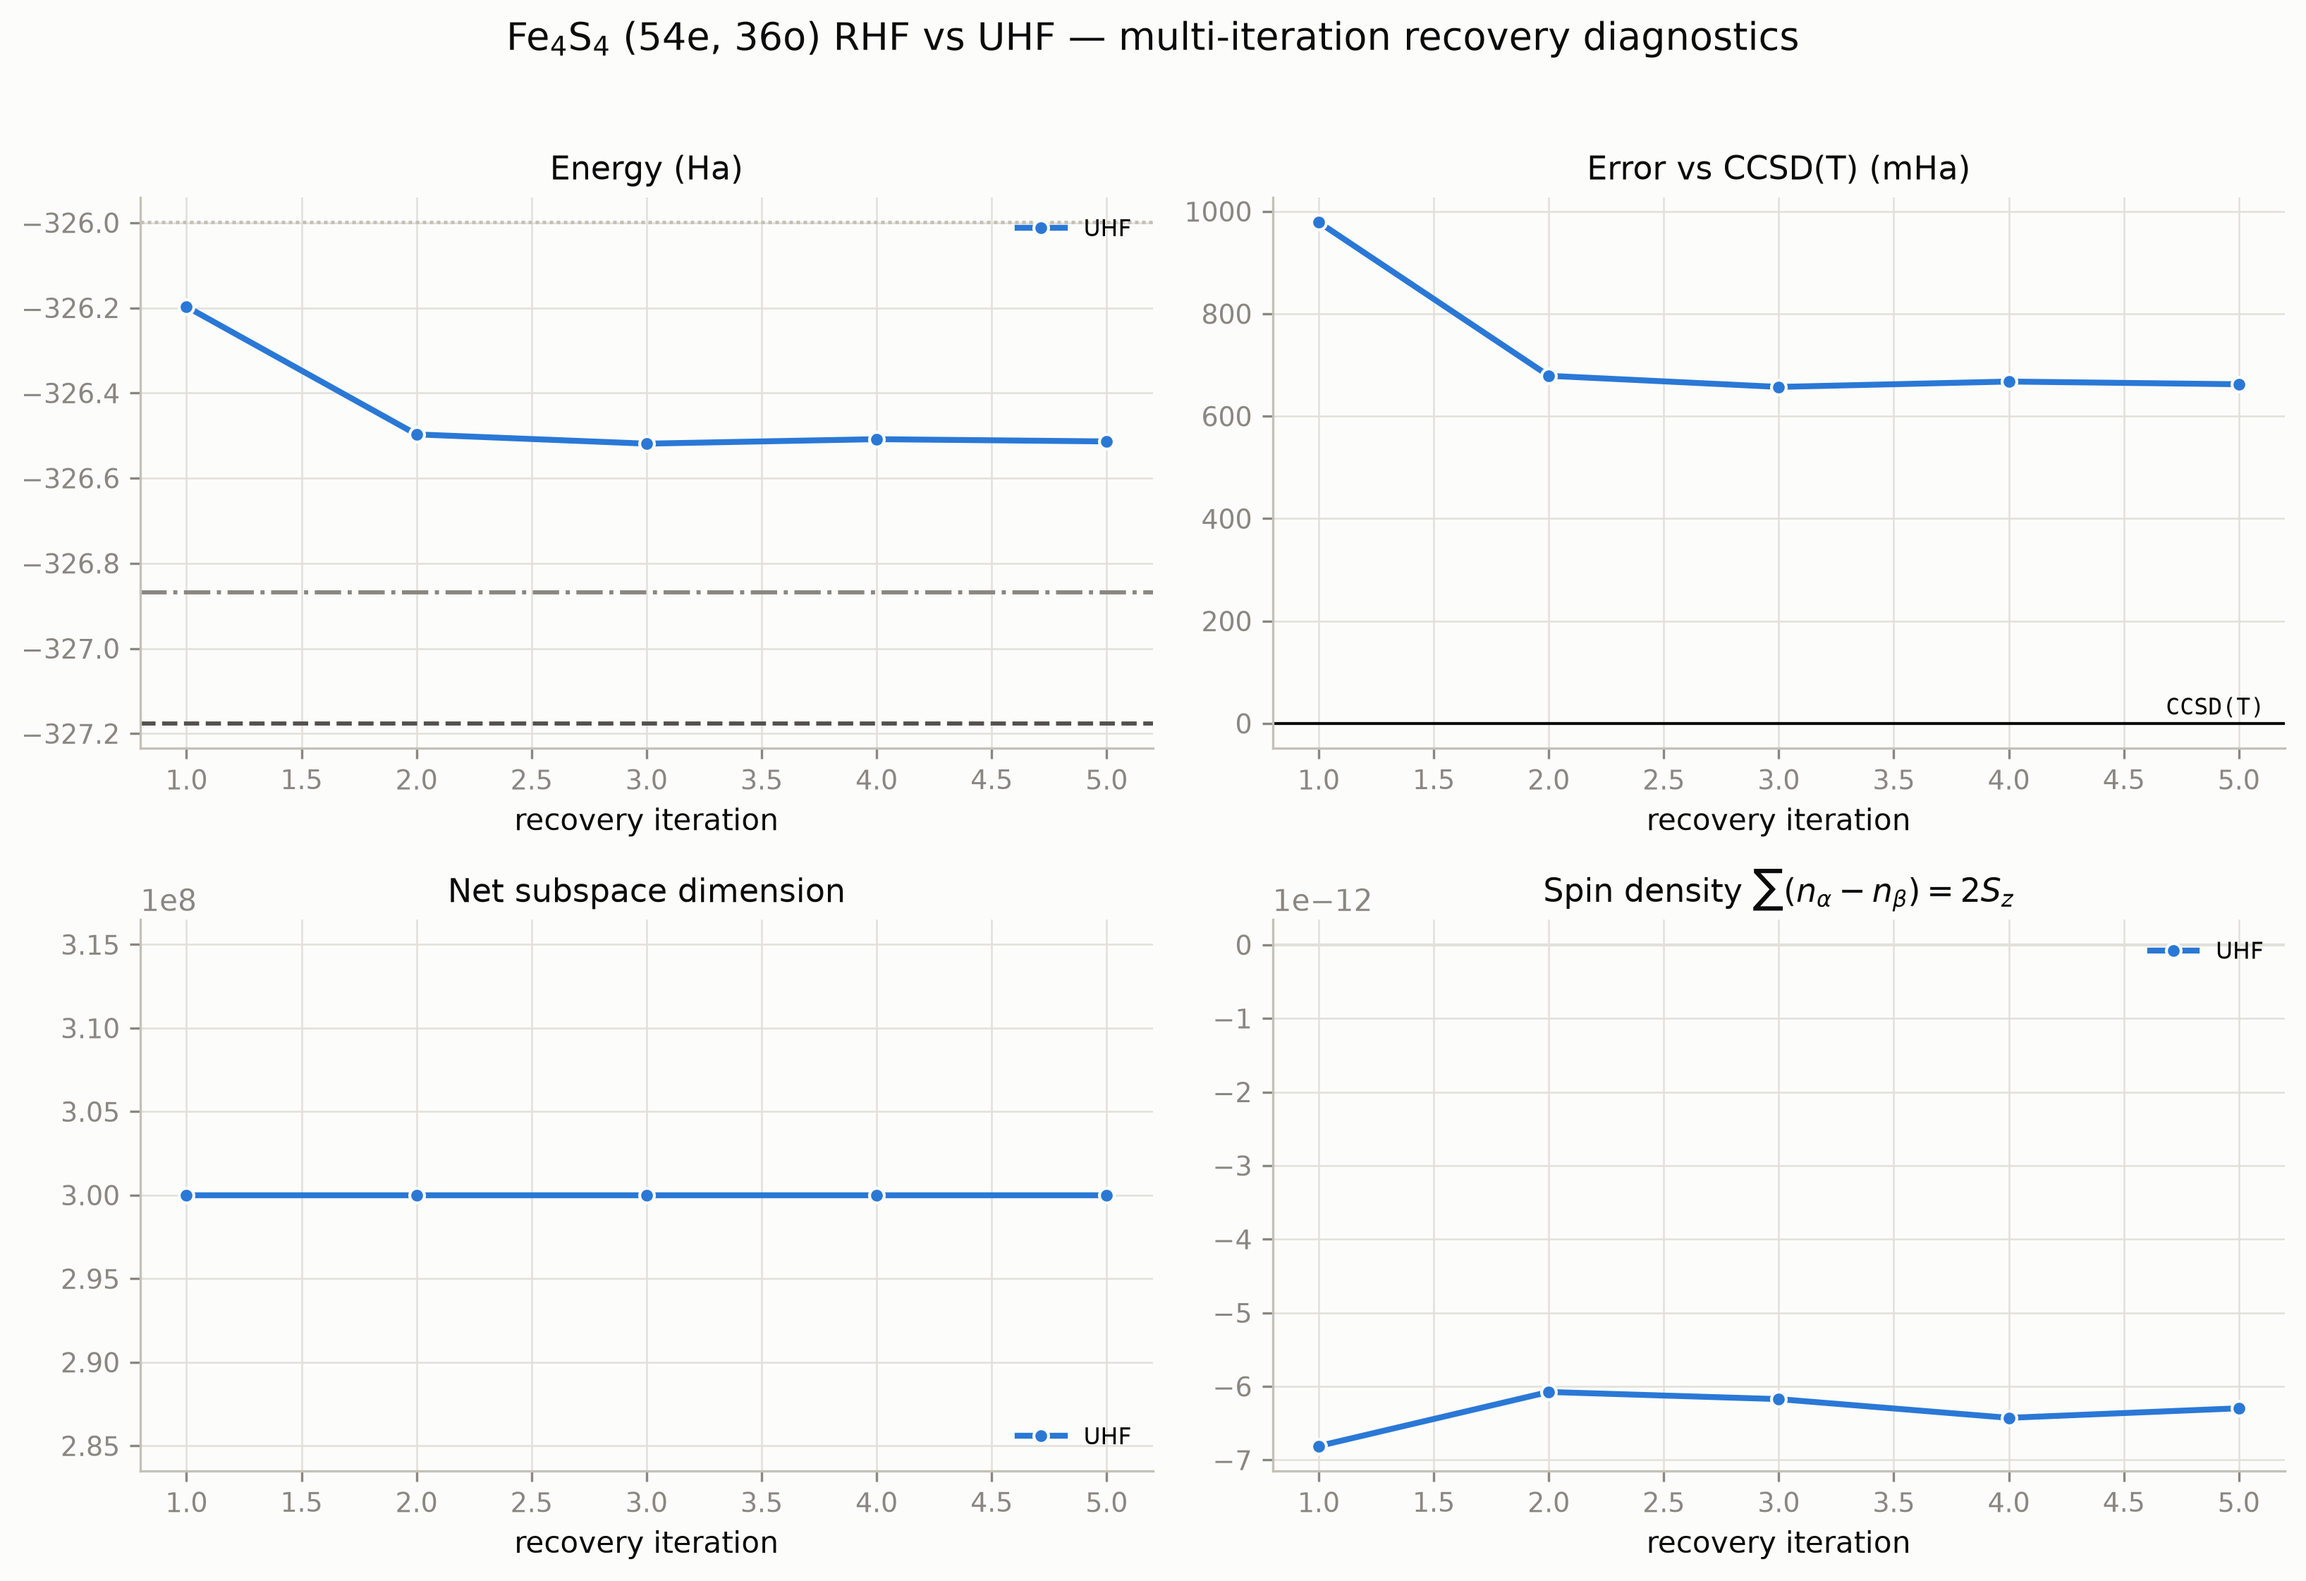
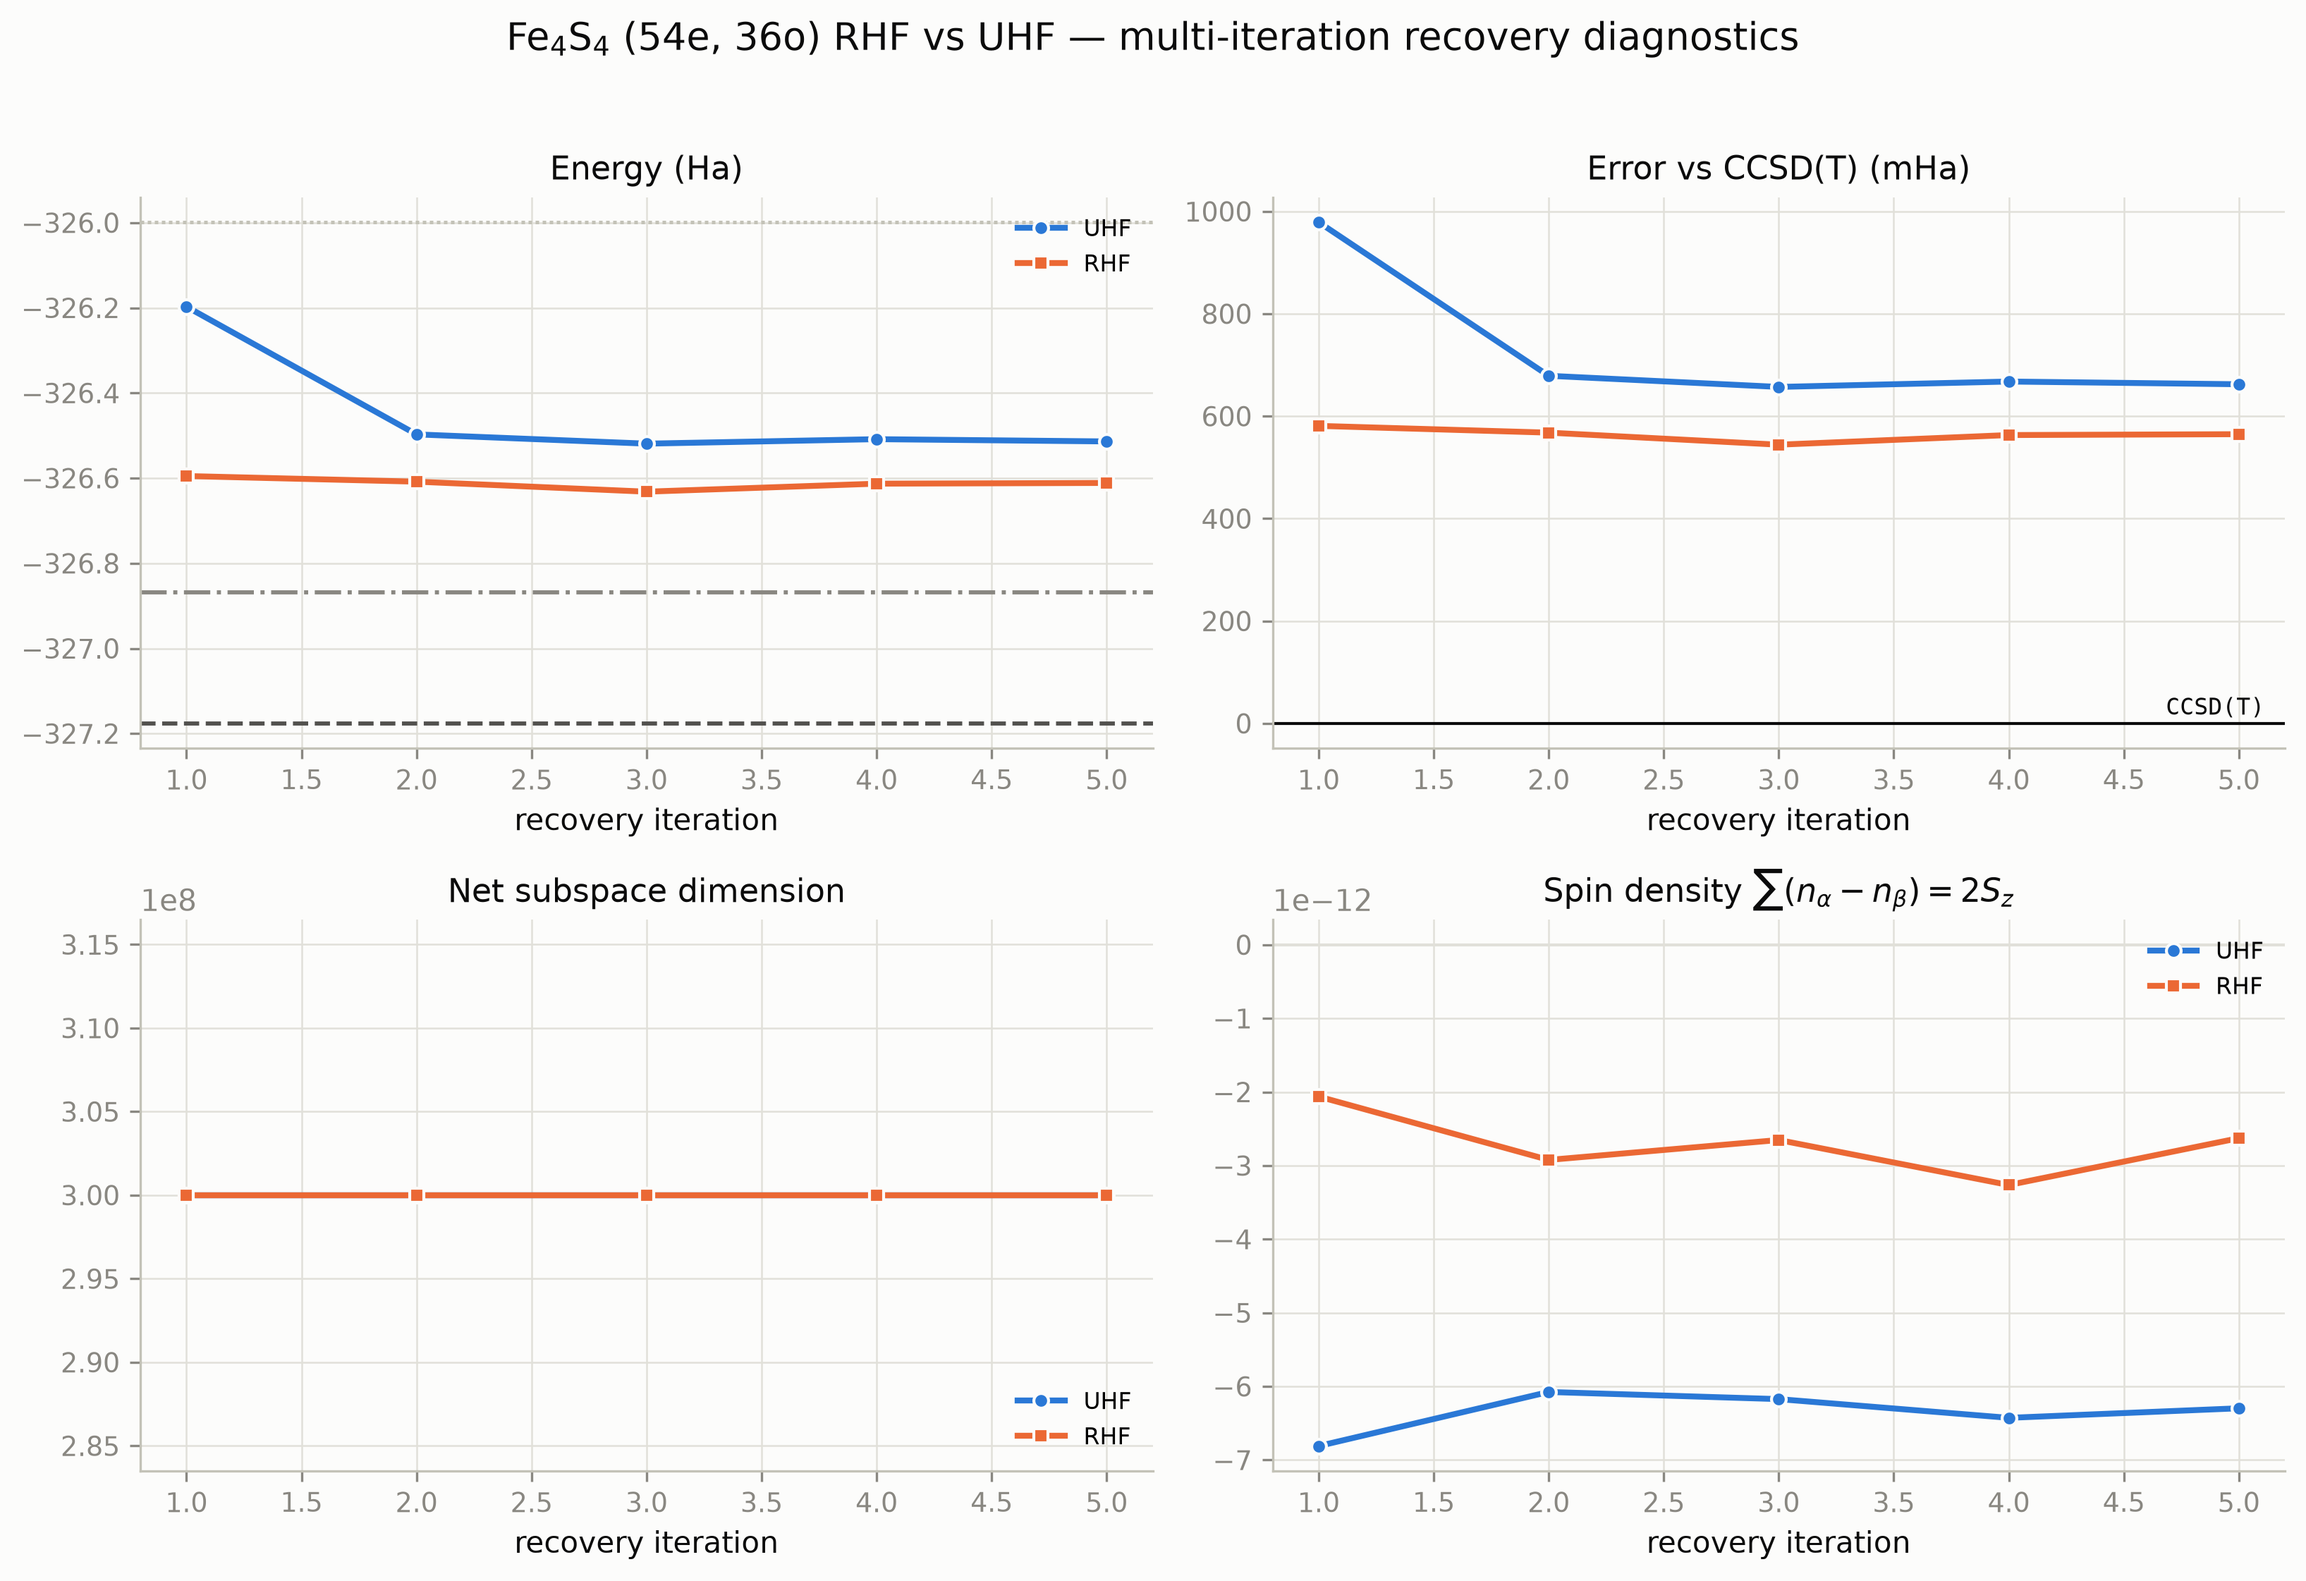
docs(2026-07-08): RHF-vs-UHF Fe4S4 results + runtime & full hyperparameter tables
Replace RHF placeholder with the completed Fe4S4 RHF 5-step recovery
(best -326.632, below UHF-SQD -326.519) and the two-curve figure. Add a
runtime summary (per-job wall-clock on ROQUO) and a complete hyperparameter
table (active space, sampling, LUCJ, recovery/SQD, DE, GPU execution,
references, GPU build, Prefect robustness).

diff --git a/docs/2026-07-08/presentation.tex b/docs/2026-07-08/presentation.tex
@@ -223,21 +223,124 @@ recovery curve vs its references. Each panel has its own energy axis (the system
 $\sim$210\,Ha). \emph{[Figure: \texttt{fe\_twopanel.png}]}}
 \end{figure}
 
-\subsection{RHF case}
-\textbf{[PLACEHOLDER --- RHF run in progress.]} The RHF pipeline is identical to UHF with
-\texttt{--method rhf} (RHF reference, restricted diagonalizer \texttt{diag-gpu}). RHF was sampled
-on \texttt{ibm\_kobe} (5\,M shots; $E_{\text{sample}}=-326.547$ Ha) and the pool persisted; the
-5-iteration GPU recovery is running. On completion, the RHF recovery curve will be overlaid on the
-Fe$_4$S$_4$ panel for a direct RHF-vs-UHF comparison of the recovery effect. \emph{Fe$_2$S$_2$
-RHF (and a clean Fe$_2$S$_2$ UHF) recovery are queued for ROQUO as time permits (small/fast at
-40q).}
+\subsection{Fe$_4$S$_4$ (72q): RHF vs UHF recovery}
+The RHF pipeline is identical to UHF with \texttt{--method rhf} (RHF reference, restricted
+diagonalizer). RHF was sampled independently on \texttt{ibm\_kobe} (5\,M shots) and its
+5-iteration GPU recovery converges to $-326.632$ Ha --- notably \emph{below} the UHF-SQD result
+($-326.519$), i.e.\ on this active space the restricted reference yields a slightly deeper
+recovered energy. Both curves lie well below UHF, between UHF and UCCSD relative to CCSD(T).
+
+\begin{table}[h]\centering
+\begin{tabular}{@{}lrrrrrr@{}}
+\toprule
+Ref & it.1 & it.2 & it.3 & it.4 & it.5 & best \\
+\midrule
+UHF-SQD & $-326.197$ & $-326.497$ & $-326.519$ & $-326.509$ & $-326.514$ & $\mathbf{-326.519}$ \\
+RHF-SQD & $-326.595$ & $-326.608$ & $-326.632$ & $-326.613$ & $-326.611$ & $\mathbf{-326.632}$ \\
+\bottomrule
+\end{tabular}
+\caption{Fe$_4$S$_4$ (72q) RHF vs UHF SQD recovery trajectories (Ha; sqd\_dim $=3\times10^8$,
+GB200 GPU). References: UHF $-325.9987$, UCCSD $-326.8678$, CCSD(T) $-327.1762$ Ha.}
+\end{table}
 
 \begin{figure}[h]\centering
-\fbox{\parbox[c][4cm][c]{0.8\textwidth}{\centering\emph{Placeholder: Fe$_4$S$_4$ RHF-vs-UHF
-recovery curves (\texttt{fe4s4\_rhf\_vs\_uhf.png}) --- to be inserted when the RHF recovery
-job completes.}}}
-\caption{RHF vs UHF recovery on Fe$_4$S$_4$ (72q). \emph{[Placeholder]}}
+\includegraphics[width=0.9\textwidth]{fe4s4_rhf_vs_uhf.png}
+\caption{\textbf{Fe$_4$S$_4$ (72q): RHF vs UHF SQD recovery} on GB200 GPU. Blue = UHF-SQD,
+orange = RHF-SQD; both converge within $\sim$3 iterations, well below the UHF reference and
+toward UCCSD/CCSD(T). \emph{[Figure: \texttt{fe4s4\_rhf\_vs\_uhf.png}]}}
 \end{figure}
+
+\emph{Fe$_2$S$_2$ (40q): a clean UHF sample + 5-iteration recovery is running on ROQUO; RHF to
+follow. The two-panel figure (\S 5.2) will be upgraded to show the Fe$_2$S$_2$ recovery trajectory
+in place of the single point.}
+
+% =====================================================================================
+\section{Runtime summary and full hyperparameters}
+% =====================================================================================
+\subsection{Wall-clock (ROQUO, per job)}
+All GPU jobs used the qtr node plan (1$\times$GB200, 36 cores). Sampling is dominated by the
+IBM device queue + 5\,M-shot execution; recovery by the recover/subsample step and the GPU solve.
+\begin{longtable}{@{}llrl@{}}
+\toprule
+Stage & System / method & Wall-clock & Notes \\
+\midrule\endhead
+Sampling (kobe, 5\,M shots) & Fe$_4$S$_4$ UHF & 41\,min & 1{,}312{,}655 kept shots \\
+Sampling (kobe, 5\,M shots) & Fe$_4$S$_4$ RHF & 42\,min & $E_{\text{sample}}=-326.547$ \\
+Sampling (kobe, 5\,M shots) & Fe$_2$S$_2$ UHF & 44\,min & $E_{\text{sample}}=-116.277$ \\
+Recovery (5 iter, GB200)    & Fe$_4$S$_4$ UHF & 36\,min & $\sim$65--400\,s/solve, sqd\_dim $3\times10^8$ \\
+Recovery (5 iter, GB200)    & Fe$_4$S$_4$ RHF & 27\,min & 1608\,s total flow \\
+Single GPU solve (17{,}320 dets/spin) & Fe$_4$S$_4$ & 13--65\,s & Davidson $\sim$13--24\,s + FCIDUMP parse/GPU init \\
+References (UHF/UCCSD/CCSD(T)) & Fe$_4$S$_4$ (36o) & $\sim$30\,min & CCSD(T) triples dominate \\
+References (UHF/UCCSD/CCSD(T)) & Fe$_2$S$_2$ (20o) & $\sim$5\,min & \\
+GPU build (nvc++, both binaries) & --- & $\sim$8\,min & one-time, on a compute node \\
+\bottomrule
+\end{longtable}
+
+\subsection{Complete hyperparameter set}
+Identical for UHF and RHF except \texttt{--method} (and hence the reference, LUCJ ansatz, and diag
+binary). Fe$_2$S$_2$ uses the same values except \texttt{sqd\_dim} (see note).
+\begin{longtable}{@{}lll@{}}
+\toprule
+Parameter & Value & Meaning \\
+\midrule\endhead
+\multicolumn{3}{@{}l}{\emph{Active space / problem}}\\
+\ \ Fe$_4$S$_4$ & NORB=36, NELEC=54, MS2=0 & 72 qubits, singlet \\
+\ \ Fe$_2$S$_2$ & NORB=20, NELEC=30, MS2=0 & 40 qubits, singlet \\
+\ \ \texttt{method} & \texttt{uhf} $|$ \texttt{rhf} & reference determinant / diagonalizer \\
+\midrule
+\multicolumn{3}{@{}l}{\emph{Quantum sampling (IBM \texttt{ibm\_kobe})}}\\
+\ \ \texttt{shots} & 5{,}000{,}000 & total measurement shots \\
+\ \ \texttt{n\_shot\_batches} & 5 & $5\times10^6$ split into 5$\times$1\,M (\texttt{concatenate\_shots}) \\
+\ \ \texttt{quantum\_source} & \texttt{real-device} $\to$ \texttt{saved} & sample once, reuse the pool \\
+\ \ dynamical decoupling & on, sequence \texttt{XY4} & error mitigation \\
+\ \ measurement twirling & on & error mitigation \\
+\ \ gate twirling & off & (fails on fractional LUCJ \texttt{rzz}) \\
+\ \ reset mitigation & on & \\
+\midrule
+\multicolumn{3}{@{}l}{\emph{LUCJ circuit (ansatz)}}\\
+\ \ \texttt{n\_lucj\_layers} & 1 & reduces noise at high qubit count \\
+\ \ ansatz seed & (U)CCSD amplitudes & \texttt{SEED\_CCSD\_MAX\_CYCLE=200} + DIIS \\
+\ \ transpiler opt.\ level & 3 & SABRE layout (1024 trials, 8 iters, 10 swap trials) \\
+\midrule
+\multicolumn{3}{@{}l}{\emph{Configuration recovery / SQD}}\\
+\ \ \texttt{sqd\_dim} & $3\times10^8$ (Fe$_4$S$_4$); $3\times10^6$ (Fe$_2$S$_2$) & subspace dim ($\sqrt{}\!\approx$17320 / 1732 dets/spin) \\
+\ \ \texttt{n\_recovery\_steps} & 5 & self-consistent configuration-recovery passes \\
+\ \ \texttt{n\_batches} & 1 & K-batch count (1: concurrent GPU solves OOM) \\
+\ \ \texttt{carryover\_type} & 1 & determinant carryover enabled \\
+\ \ \texttt{carryover\_ratio} & 0.5 & \\
+\ \ Hamming post-selection & $(N_\alpha,N_\beta)$ sector & fixes particle number / $S_z$ \\
+\midrule
+\multicolumn{3}{@{}l}{\emph{Differential evolution (single-pass eval)}}\\
+\ \ \texttt{num\_walkers} & 1 & single evaluation pass \\
+\ \ \texttt{iterations} & 1 & no DE optimization loop \\
+\ \ \texttt{randomization\_factor} & 0.2 & ansatz perturbation from CCSD \\
+\ \ \texttt{fxc} & 0.5 & DE scaling factor (unused at 1 walker) \\
+\midrule
+\multicolumn{3}{@{}l}{\emph{ROQUO GPU execution}}\\
+\ \ \texttt{hpc\_target} & \texttt{slurm} & per-solve \texttt{sbatch} + \texttt{sacct} poll \\
+\ \ \texttt{solver\_mode} & \texttt{gpu} & selects \texttt{diag-gpu}/\texttt{diag-gpu\_uhf} \\
+\ \ \texttt{--slurm-gres} & \texttt{gpu:1} & one GB200 per solve (multi-rank OOMs) \\
+\ \ launcher / MPI opts & \texttt{srun} / \texttt{--gpu-bind=closest} & PMIx, 1 rank/GPU \\
+\ \ modules & \texttt{cuda/13.2}, \texttt{hpcx/2.50} & \\
+\ \ \texttt{ompthreads} & 36 & qtr-plan host cores \\
+\ \ \texttt{solver\_timeout\_seconds} & 43{,}200 & 12\,h \\
+\ \ \texttt{walltime} & 3--4\,h & \\
+\midrule
+\multicolumn{3}{@{}l}{\emph{Classical references}}\\
+\ \ SCF / CCSD \texttt{max\_cycle} & 300 & + DIIS(12) + level-shift(0.2) for hard Fe--S \\
+\ \ HCI & skipped ($>$24 orbitals) & selected-CI intractable at 72q \\
+\ \ DMRG & deferred (block2) & near-exact anchor, separate job \\
+\midrule
+\multicolumn{3}{@{}l}{\emph{GPU build}}\\
+\ \ compiler & \texttt{nvc++} 26.5 & \texttt{-std=c++17 -mp -cuda -fast -gpu=mem:unified,cc100 -DSBD\_THRUST} \\
+\ \ arch & \texttt{cc100} (sm\_100) & GB200 Blackwell \\
+\midrule
+\multicolumn{3}{@{}l}{\emph{Prefect robustness (ROQUO)}}\\
+\ \ \texttt{PREFECT\_API\_REQUEST\_TIMEOUT} & 600\,s & long child-solve polls exceed 60\,s default \\
+\ \ \texttt{PREFECT\_HOME} & Lustre (\texttt{/home}) & pool + DB persistence \\
+\ \ task runner / telemetry & Concurrent / disabled & avoid SQLite contention \\
+\bottomrule
+\end{longtable}
 
 % =====================================================================================
 \section{Commit history (since 2026-07-01)}
